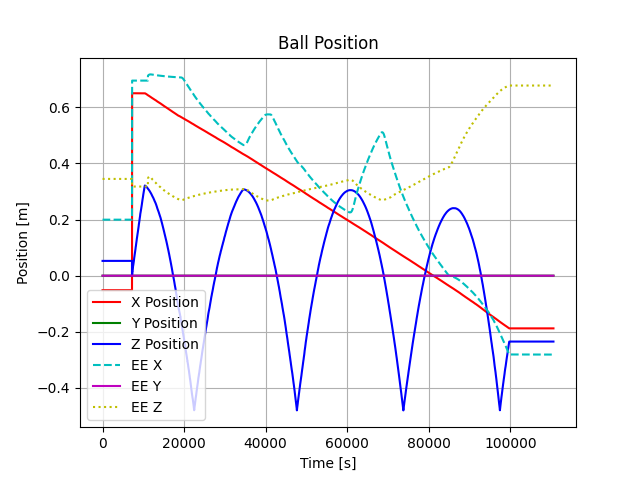
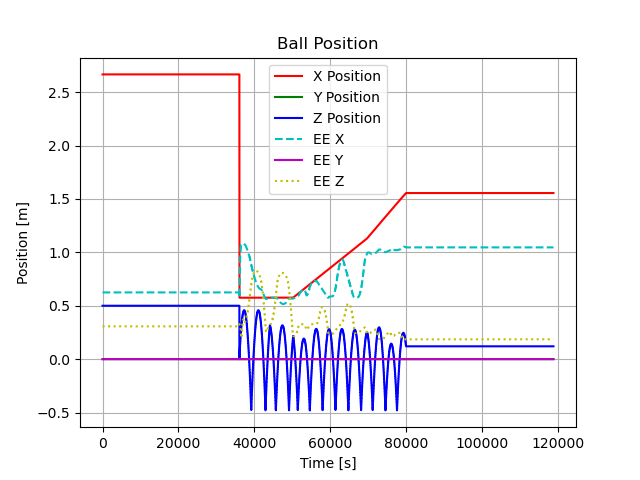
post ethan meeting

diff --git a/project_starter/basketbot.cpp b/project_starter/basketbot.cpp
@@ -173,6 +173,7 @@ int main() {
 	SaiCommon::LoopTimer timer(control_freq, 1e6);
 
 	pose_task->enableInternalOtgAccelerationLimited(4.0, 4.0, M_PI/3, M_PI); // OTG LIMITS STUFF
+	//pose_task->disableInternalOtg();
 
 
 	while (runloop) {
@@ -264,14 +265,14 @@ int main() {
 
 				ee_pos_desired = ee_pos_init;
 				ee_pos_desired(2) -= 0.1;
-				// ee_vel_desired << 0, 0, -ball_vel_des(2);
+				ee_vel_desired << 0, 0, -ball_vel_des(2);
 				ee_ori_desired = ee_ori_init;
 				q_desired = robot_q_init;
 
 				// pose_task->disableInternalOtg();
 
 				pose_task->setGoalPosition(ee_pos_desired);
-				// pose_task->setGoalLinearVelocity(ee_vel_desired);
+				pose_task->setGoalLinearVelocity(ee_vel_desired);
 				pose_task->setGoalOrientation(ee_ori_desired);
 				joint_task->setGoalPosition(q_desired);
 

diff --git a/project_starter/basketbot-simviz.cpp b/project_starter/basketbot-simviz.cpp
@@ -175,10 +175,10 @@ void simulation(std::shared_ptr<SaiSimulation::SaiSimulation> sim) {
 	redis_client.connect();
 
 	// create a timer
-	double sim_freq = 2000; // should be 2000
+	double sim_freq = 500; // should be 2000
 	SaiCommon::LoopTimer timer(sim_freq);
 
-	sim->setTimestep(0.1 / sim_freq); // 0.1 is 10 times slower sim, 1.0 is real time
+	sim->setTimestep(1.0 / 500); // 0.1 is 10 times slower sim, 1.0 is real time
 	sim->enableGravityCompensation(true);
 	sim->enableJointLimits(robot_name);
 
